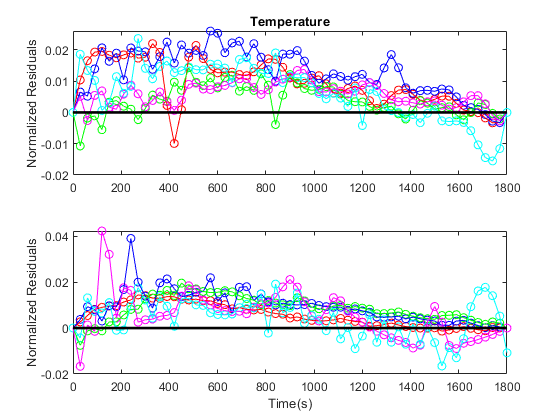
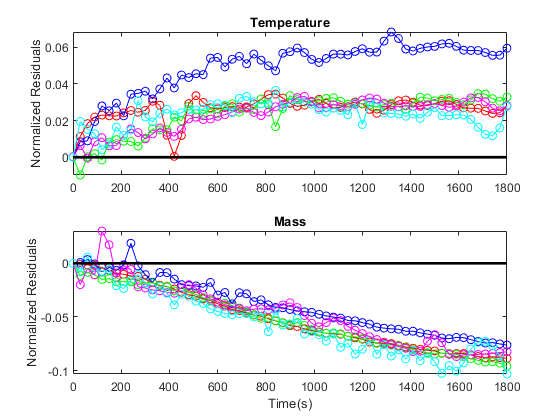
nytt

diff --git a/Ny mapp/Main_test.m b/Ny mapp/Main_test.m
@@ -83,32 +83,6 @@ y05 = [353.15 m_A05];
  q_convection_top_in8=q_convection_top_in8(2:end);
 % -------------------------------------------------------------------------
 
-%---------------------------Normalize--------------------------------------
-T_norm1 = (y1(:,1) - min(y1(:,1)))/(max(y1(:,1))-min(y1(:,1)));
-T_norm2 = (y2(:,1) - min(y2(:,1)))/(max(y2(:,1))-min(y2(:,1)));
-T_norm3 = (y3(:,1) - min(y3(:,1)))/(max(y3(:,1))-min(y3(:,1)));
-T_norm4 = (y4(:,1) - min(y4(:,1)))/(max(y4(:,1))-min(y4(:,1)));
-T_norm5 = (y5(:,1) - min(y5(:,1)))/(max(y5(:,1))-min(y5(:,1)));
-
-m_norm1 = (y1(:,2) - min(y1(:,2)))/(max(y1(:,2))-min(y1(:,2)));
-m_norm2 = (y2(:,2) - min(y2(:,2)))/(max(y2(:,2))-min(y2(:,2)));
-m_norm3 = (y3(:,2) - min(y3(:,2)))/(max(y3(:,2))-min(y3(:,2)));
-m_norm4 = (y4(:,2) - min(y4(:,2)))/(max(y4(:,2))-min(y4(:,2)));
-m_norm5 = (y5(:,2) - min(y5(:,2)))/(max(y5(:,2))-min(y5(:,2)));
-
-T_data1 = (T1.T__C_ - min(T1.T__C_))/(max(T1.T__C_)-min(T1.T__C_));
-T_data2 = (T2.T__C_ - min(T2.T__C_))/(max(T2.T__C_)-min(T2.T__C_));
-T_data3 = (T3.T__C_ - min(T3.T__C_))/(max(T3.T__C_)-min(T3.T__C_));
-T_data4 = (T4.T__C_ - min(T4.T__C_))/(max(T4.T__C_)-min(T4.T__C_));
-T_data5 = (T5.T__C_ - min(T5.T__C_))/(max(T5.T__C_)-min(T5.T__C_));
-
-m_data1 = (T1.m__g_ - min(T1.m__g_))/(max(T1.m__g_)-min(T1.m__g_));
-m_data2 = (T2.m__g_ - min(T2.m__g_))/(max(T2.m__g_)-min(T2.m__g_));
-m_data3 = (T3.m__g_ - min(T3.m__g_))/(max(T3.m__g_)-min(T3.m__g_));
-m_data4 = (T4.m__g_ - min(T4.m__g_))/(max(T4.m__g_)-min(T4.m__g_));
-m_data5 = (T5.m__g_ - min(T5.m__g_))/(max(T5.m__g_)-min(T5.m__g_));
-%--------------------------------------------------------------------------
-
 
 % --------------------------Adjust Data------------------------------------
 
@@ -128,6 +102,31 @@ y5(:,1) = y5(:,1) - 273.15;
 y5(:,2) = y5(:,2).*1000;
 %--------------------------------------------------------------------------
 
+%---------------------------Normalize--------------------------------------
+T_norm1 = (y1(:,1) - min(T1.T__C_))/(max(T1.T__C_)-min(T1.T__C_));
+T_norm2 = (y2(:,1) - min(T2.T__C_))/(max(T2.T__C_)-min(T2.T__C_));
+T_norm3 = (y3(:,1) - min(T3.T__C_))/(max(T3.T__C_)-min(T3.T__C_));
+T_norm4 = (y4(:,1) - min(T4.T__C_))/(max(T4.T__C_)-min(T4.T__C_));
+T_norm5 = (y5(:,1) - min(T5.T__C_))/(max(T5.T__C_)-min(T5.T__C_));
+
+m_norm1 = (y1(:,2) - min(T1.m__g_))/(max(T1.m__g_)-min(T1.m__g_));
+m_norm2 = (y2(:,2) - min(T2.m__g_))/(max(T2.m__g_)-min(T2.m__g_));
+m_norm3 = (y3(:,2) - min(T3.m__g_))/(max(T3.m__g_)-min(T3.m__g_));
+m_norm4 = (y4(:,2) - min(T4.m__g_))/(max(T4.m__g_)-min(T4.m__g_));
+m_norm5 = (y5(:,2) - min(T5.m__g_))/(max(T5.m__g_)-min(T5.m__g_));
+
+T_data1 = (T1.T__C_ - min(T1.T__C_))/(max(T1.T__C_)-min(T1.T__C_));
+T_data2 = (T2.T__C_ - min(T2.T__C_))/(max(T2.T__C_)-min(T2.T__C_));
+T_data3 = (T3.T__C_ - min(T3.T__C_))/(max(T3.T__C_)-min(T3.T__C_));
+T_data4 = (T4.T__C_ - min(T4.T__C_))/(max(T4.T__C_)-min(T4.T__C_));
+T_data5 = (T5.T__C_ - min(T5.T__C_))/(max(T5.T__C_)-min(T5.T__C_));
+
+m_data1 = (T1.m__g_ - min(T1.m__g_))/(max(T1.m__g_)-min(T1.m__g_));
+m_data2 = (T2.m__g_ - min(T2.m__g_))/(max(T2.m__g_)-min(T2.m__g_));
+m_data3 = (T3.m__g_ - min(T3.m__g_))/(max(T3.m__g_)-min(T3.m__g_));
+m_data4 = (T4.m__g_ - min(T4.m__g_))/(max(T4.m__g_)-min(T4.m__g_));
+m_data5 = (T5.m__g_ - min(T5.m__g_))/(max(T5.m__g_)-min(T5.m__g_));
+%--------------------------------------------------------------------------
 
 %--------------------------Residual for R^2--------------------------------
 vq_T1_R = interp1(t_span,y1(:,1) ,T1.t__s_); % Interpolated Temperature
@@ -258,6 +257,7 @@ plot(T1.t__s_, residual_m1, 'r', T1.t__s_, residual_m2, 'b', T1.t__s_, residual_
 plot([0 1800], [0 0], 'black', 'linewidth', 2)
 ylabel('Normalized Residuals')
 xlabel('Time(s)')
+title('Mass')
 % -------------------------------------------------------------------------
 
 %------------------- Heat Flows Total -------------------------------------------
